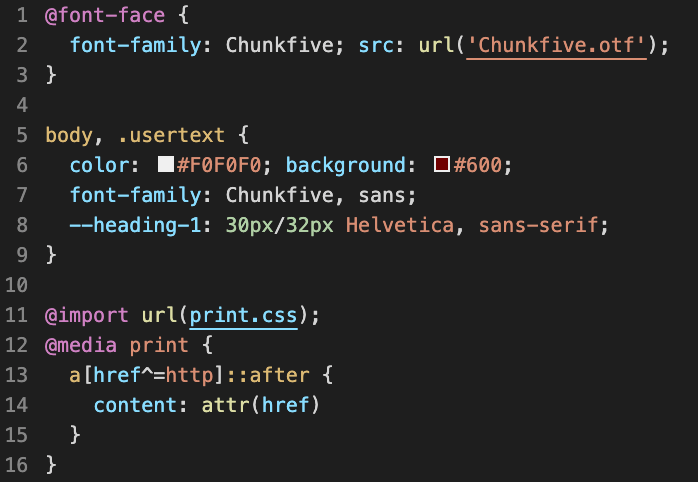
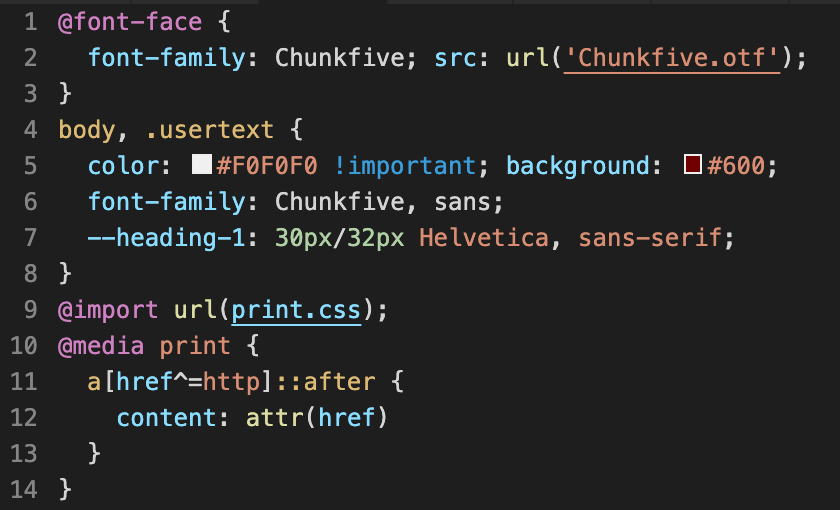
Move out code into separate files

diff --git a/src/index.js b/src/index.js
@@ -7,6 +7,9 @@ import screenshotJs from './vs-code-screenshot-js.png';
 /* eslint import/no-webpack-loader-syntax: off */
 import vsCodeDarkTheme from '!!file-loader!./prism-vsc-dark-plus.css';
 import vsCodeDarkThemeFixed from '!!file-loader!./prism-vsc-dark-plus-fixed.css';
+import jsCode from '!!raw-loader!./code.js';
+import cssCode from '!!raw-loader!./code.css';
+import htmlCode from '!!raw-loader!./code.html';
 
 require('prismjs/components/prism-css-extras');
 require('prismjs/components/prism-js-extras');
@@ -15,108 +18,15 @@ require('prismjs/components/prism-jsx');
 
 function App() {
   const [fixedCss, setFixedCss] = useState(false);
-  const htmlCode = Prism.highlight(
-    `<!DOCTYPE html>
-<head>
-  <meta charset="utf-8" />
-  <title>Title</title>
-  <style>body {width: 500px;}</style>
-</head>
+  const highlightedJs = Prism.highlight(jsCode, Prism.languages.jsx, 'jsx');
 
-<script type="application/javascript">
-  function $init() {return true;}
-</script>
+  const highlightedCss = Prism.highlight(cssCode, Prism.languages.css, 'css');
 
-<body>
-  &amp; &#x2665;
-  <![CDATA[
-    CDATA is <not> magical.
-  ]]>
-
-  <p checked class="title" id='title'>Title</p>
-  <!-- here goes the rest of the page -->
-</body>`,
+  const highlightedHtml = Prism.highlight(
+    htmlCode,
     Prism.languages.html,
     'html',
   );
-  const cssCode = Prism.highlight(
-    `@font-face {
-  font-family: Chunkfive; src: url('Chunkfive.otf');
-}
-
-body, .usertext {
-  color: #F0F0F0; background: #600;
-  font-family: Chunkfive, sans;
-  --heading-1: 30px/32px Helvetica, sans-serif;
-}
-
-@import url(print.css);
-@media print {
-  a[href^=http]::after {
-    content: attr(href)
-  }
-}`,
-    Prism.languages.css,
-    'css',
-  );
-
-  const code = Prism.highlight(
-    `import React, { useEffect } from 'react';
-function a(asdf) {
-  let b = 1;
-  console.log(a + b);
-  console.log(asdf);
-}
-a();
-
-const classes = [];
-const checkCondition = () => {};
-
-function $initHighlight(block, cls) {
-  try {
-    if (cls.search(/\\bno\\/highlight\\b/) !== -1)
-      return process(block, true, 0x0f) + \` class="\${cls}"\`;
-  } catch (e) {
-    /* handle exception */
-  }
-  for (var i = 0 / 2; i < classes.length; i++) {
-    if (checkCondition(classes[i]) === undefined) console.log('undefined');
-  }
-
-  return (
-    <div className="page-title">
-      <Label />
-      <web-component>{block}</web-component>
-    </div>
-  );
-}
-
-class Expire extends React.Component {
-  constructor(props) {
-    super(props);
-    this.state = { component: props.children };
-  }
-  componentDidMount() {
-    setTimeout(() => {
-      this.setState({
-        component: null,
-      });
-    }, this.props.time || this.props.seconds * 1000);
-  }
-  render() {
-    return this.state.component;
-  }
-}
-
-export { Expire, $initHighlight };
-
-function Label() {
-  useEffect();
-}`,
-    Prism.languages.jsx,
-    'jsx',
-  );
-  // Prism.highlightAll();
 
   return (
     <div style={{ display: 'flex', justifyContent: 'space-between' }}>
@@ -148,7 +58,7 @@ function Label() {
         <pre
           className="language-jsx"
           dangerouslySetInnerHTML={{
-            __html: code,
+            __html: highlightedJs,
           }}
         />
         <br />
@@ -157,7 +67,7 @@ function Label() {
         <pre
           className="language-css"
           dangerouslySetInnerHTML={{
-            __html: cssCode,
+            __html: highlightedCss,
           }}
         />
         <br />
@@ -166,7 +76,7 @@ function Label() {
         <pre
           className="language-html"
           dangerouslySetInnerHTML={{
-            __html: htmlCode,
+            __html: highlightedHtml,
           }}
         />
       </div>
@@ -184,7 +94,7 @@ function Label() {
         </div>
         <img
           src={screenshotJs}
-          style={{ display: 'block', height: 1010 }}
+          style={{ marginTop: 20, display: 'block', height: 1010 }}
           alt=""
         />
         <img

diff --git a/src/code.js b/src/code.js
@@ -1,0 +1,53 @@
+import React, { useEffect } from 'react';
+function a(asdf) {
+  let b = 1;
+  console.log(a + b);
+  console.log(asdf);
+}
+a();
+
+const classes = [];
+
+const checkCondition = () => {};
+
+function $initHighlight(block, cls) {
+  try {
+    if (cls.search(/\bno\/highlight\b/) !== -1)
+      return process(block, true, 0x0f) + ` class="${cls}"`;
+  } catch (e) {
+    /* handle exception */
+  }
+  for (var i = 0 / 2; i < classes.length; i++) {
+    if (checkCondition(classes[i]) === undefined) console.log('undefined');
+  }
+
+  return (
+    <div className="page-title">
+      <Label />
+      <web-component>{block}</web-component>
+    </div>
+  );
+}
+
+class Expire extends React.Component {
+  constructor(props) {
+    super(props);
+    this.state = { component: props.children };
+  }
+  componentDidMount() {
+    setTimeout(() => {
+      this.setState({
+        component: null,
+      });
+    }, this.props.time || this.props.seconds * 1000);
+  }
+  render() {
+    return this.state.component;
+  }
+}
+
+export { Expire, $initHighlight };
+
+function Label() {
+  useEffect();
+}

diff --git a/src/code.html b/src/code.html
@@ -1,0 +1,20 @@
+<!DOCTYPE html>
+<head>
+  <meta charset="utf-8" />
+  <title>Title</title>
+  <style>body {width: 500px;}</style>
+</head>
+
+<script type="application/javascript">
+  function $init() {return true;}
+</script>
+
+<body>
+  &amp; &#x2665;
+  <![CDATA[
+    CDATA is <not> magical.
+  ]]>
+
+  <p checked class="title" id='title'>Title</p>
+  <!-- here goes the rest of the page -->
+</body>

diff --git a/src/code.css b/src/code.css
@@ -1,0 +1,14 @@
+@font-face {
+  font-family: Chunkfive; src: url('Chunkfive.otf');
+}
+body, .usertext {
+  color: #F0F0F0 !important; background: #600;
+  font-family: Chunkfive, sans;
+  --heading-1: 30px/32px Helvetica, sans-serif;
+}
+@import url(print.css);
+@media print {
+  a[href^=http]::after {
+    content: attr(href)
+  }
+}
